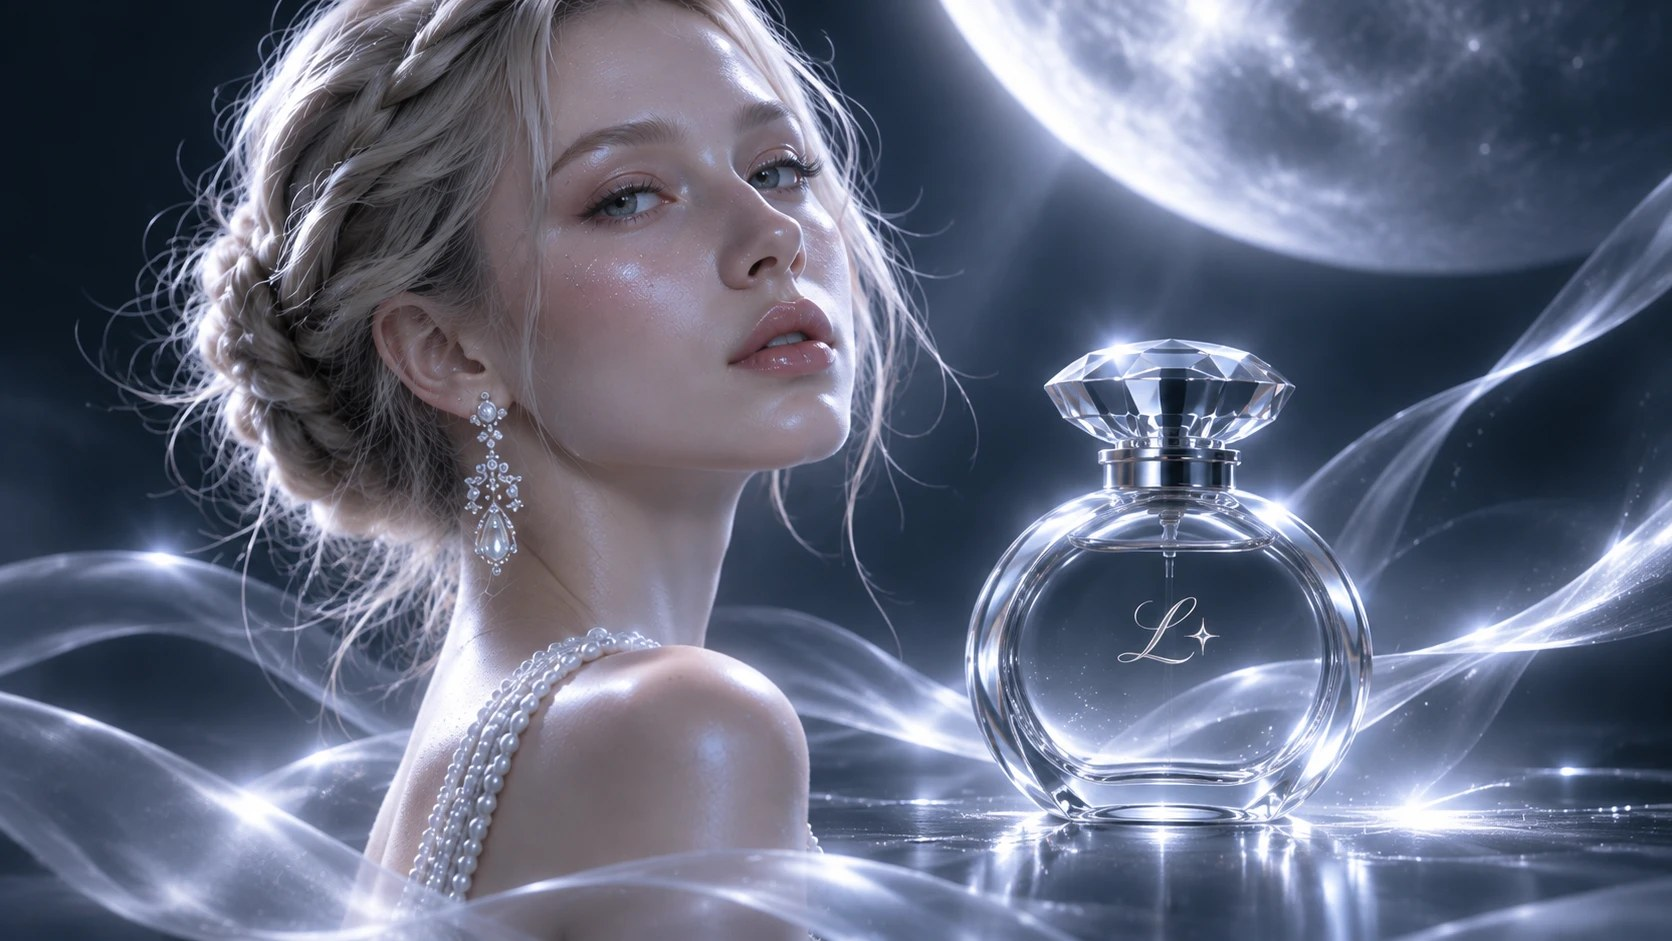
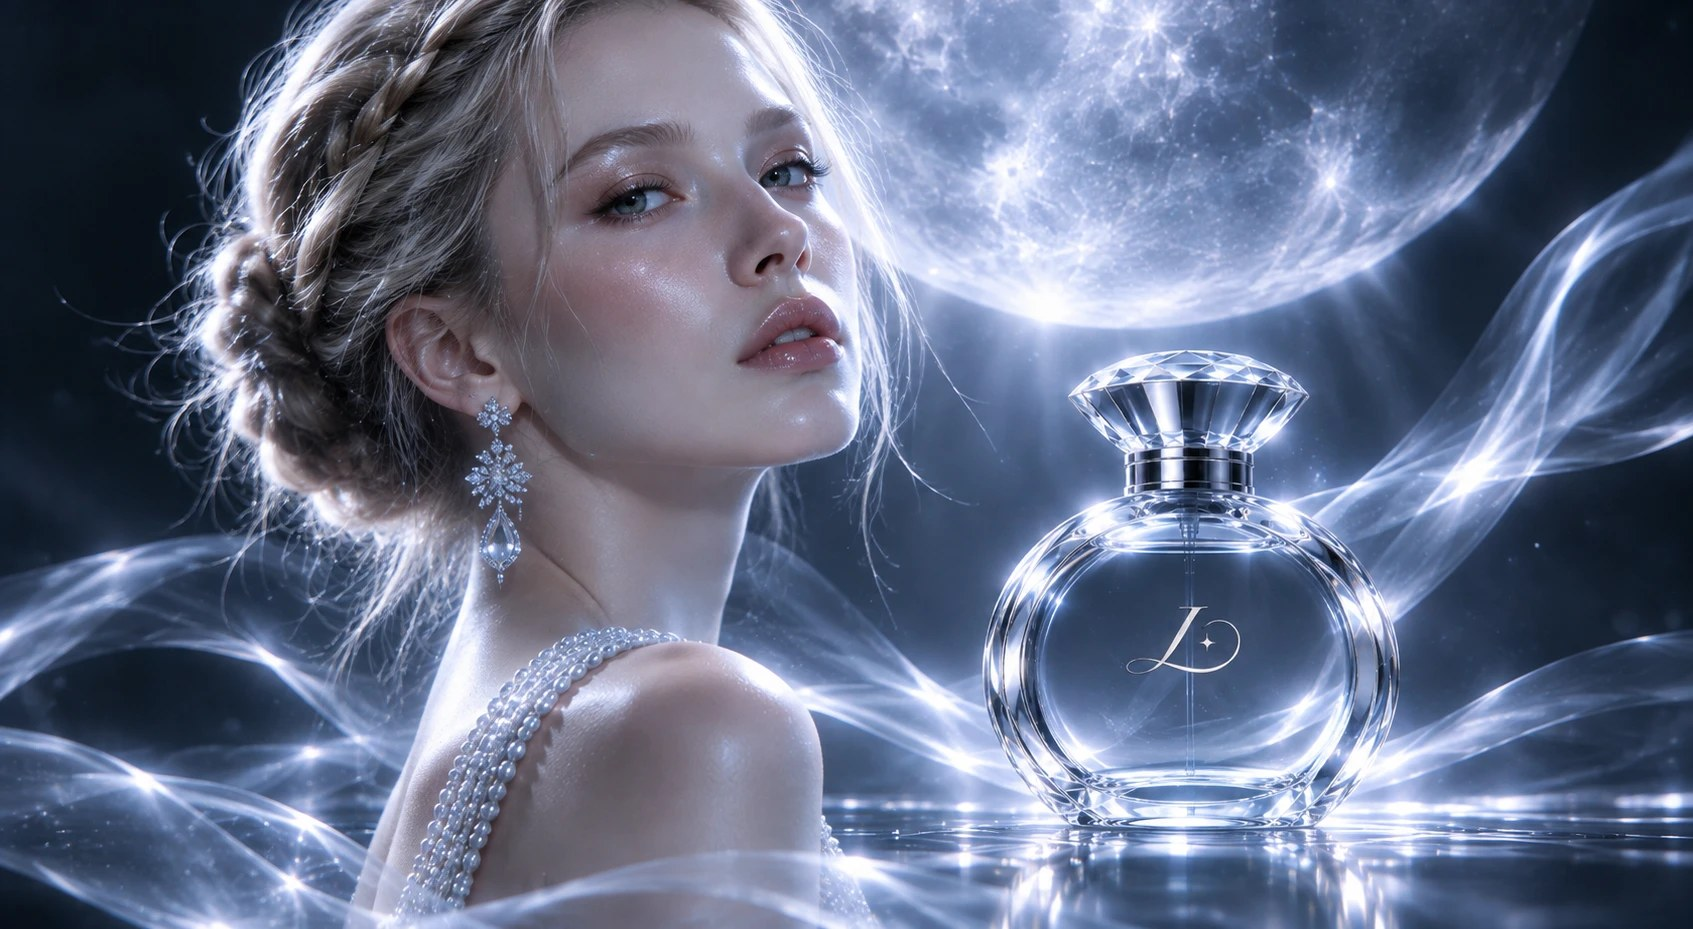
BRAND LAB: new LUNEVE main image (card ratio follows the image) and a 4th key visual

diff --git a/brand-concepts-data.js b/brand-concepts-data.js
@@ -51,8 +51,8 @@ window.BRAND_CONCEPTS = {
             description: "몽환적이고 신비로운 감성을 기반으로 기획한 가상의 니치 향수 브랜드입니다. 브랜드 컨셉부터 비주얼 아이덴티티, 제품 디자인과 광고 콘텐츠까지 일관된 세계관으로 구현하는 것을 목표로 합니다.",
 
             /* images. Empty string / [] = not available yet (shows a quiet placeholder, nothing invented) */
-            heroImage: "assets/brand-concepts/luneve/hero.jpg",   /* card image on the list page + key visual at the top of the detail page */
-            heroImageSize: { w: 1672, h: 941 },
+            heroImage: "assets/brand-concepts/luneve/hero.jpg?v=2",   /* card image on the list page + key visual at the top of the detail page */
+            heroImageSize: { w: 1693, h: 929 },
             wordmark: "",             /* confirmed logo file only, e.g. "assets/brand-concepts/luneve/identity/wordmark.svg" */
 
             sections: {
@@ -140,7 +140,9 @@ window.BRAND_CONCEPTS = {
             /* 03 PRODUCT & VISUAL  ([{ src, alt, w, h }]) */
             productImages: {
                 design: [],        /* 01 PRODUCT DESIGN: single shots, details, angles */
-                keyVisual: [],     /* 02 KEY VISUAL: brand key visual, campaign visual */
+                keyVisual: [       /* 02 KEY VISUAL: brand key visual, campaign visual */
+                    { src: "assets/brand-concepts/luneve/product/key-visual-4.jpg", alt: "LUNÉVE key visual — muse with bottle and moon", w: 1086, h: 1448 }
+                ],
                 application: [    /* 03 VISUAL APPLICATION: SNS, ad creatives, digital */
                     { src: "assets/brand-concepts/luneve/product/key-visual-1.jpg", alt: "LUNÉVE key visual — flowing light ribbon", w: 1086, h: 1448 },
                     { src: "assets/brand-concepts/luneve/product/key-visual-2.jpg", alt: "LUNÉVE key visual — bottle on water",        w: 1086, h: 1448 },

diff --git a/index.html b/index.html
@@ -1952,7 +1952,8 @@
             html += '<ul class="bc-list">';
             D.projects.forEach(function (p) {
                 var href = "#/brand-lab/" + aiEsc(p.slug);
-                html += '<li><article class="bc-card"><a class="bc-card__img" href="' + href + '" data-bc-open="' + aiEsc(p.slug) + '" aria-label="' + aiEsc(p.brandName) + '">' +
+                html += '<li><article class="bc-card"><a class="bc-card__img" href="' + href + '" data-bc-open="' + aiEsc(p.slug) + '" aria-label="' + aiEsc(p.brandName) + '"' +
+                    (p.heroImage && p.heroImageSize ? ' style="aspect-ratio:' + p.heroImageSize.w + " / " + p.heroImageSize.h + '"' : "") + ">" +
                     (p.heroImage ? '<img src="' + aiEsc(p.heroImage) + '" alt="" loading="lazy" decoding="async">' : "") + "</a>" +
                     '<div class="bc-card__body"><p class="bc-card__type">' + aiEsc(p.projectType.split(" / ")[0]) + "</p>" +
                     '<h3 class="bc-card__name">' + aiEsc(p.brandName) + "</h3>" +
